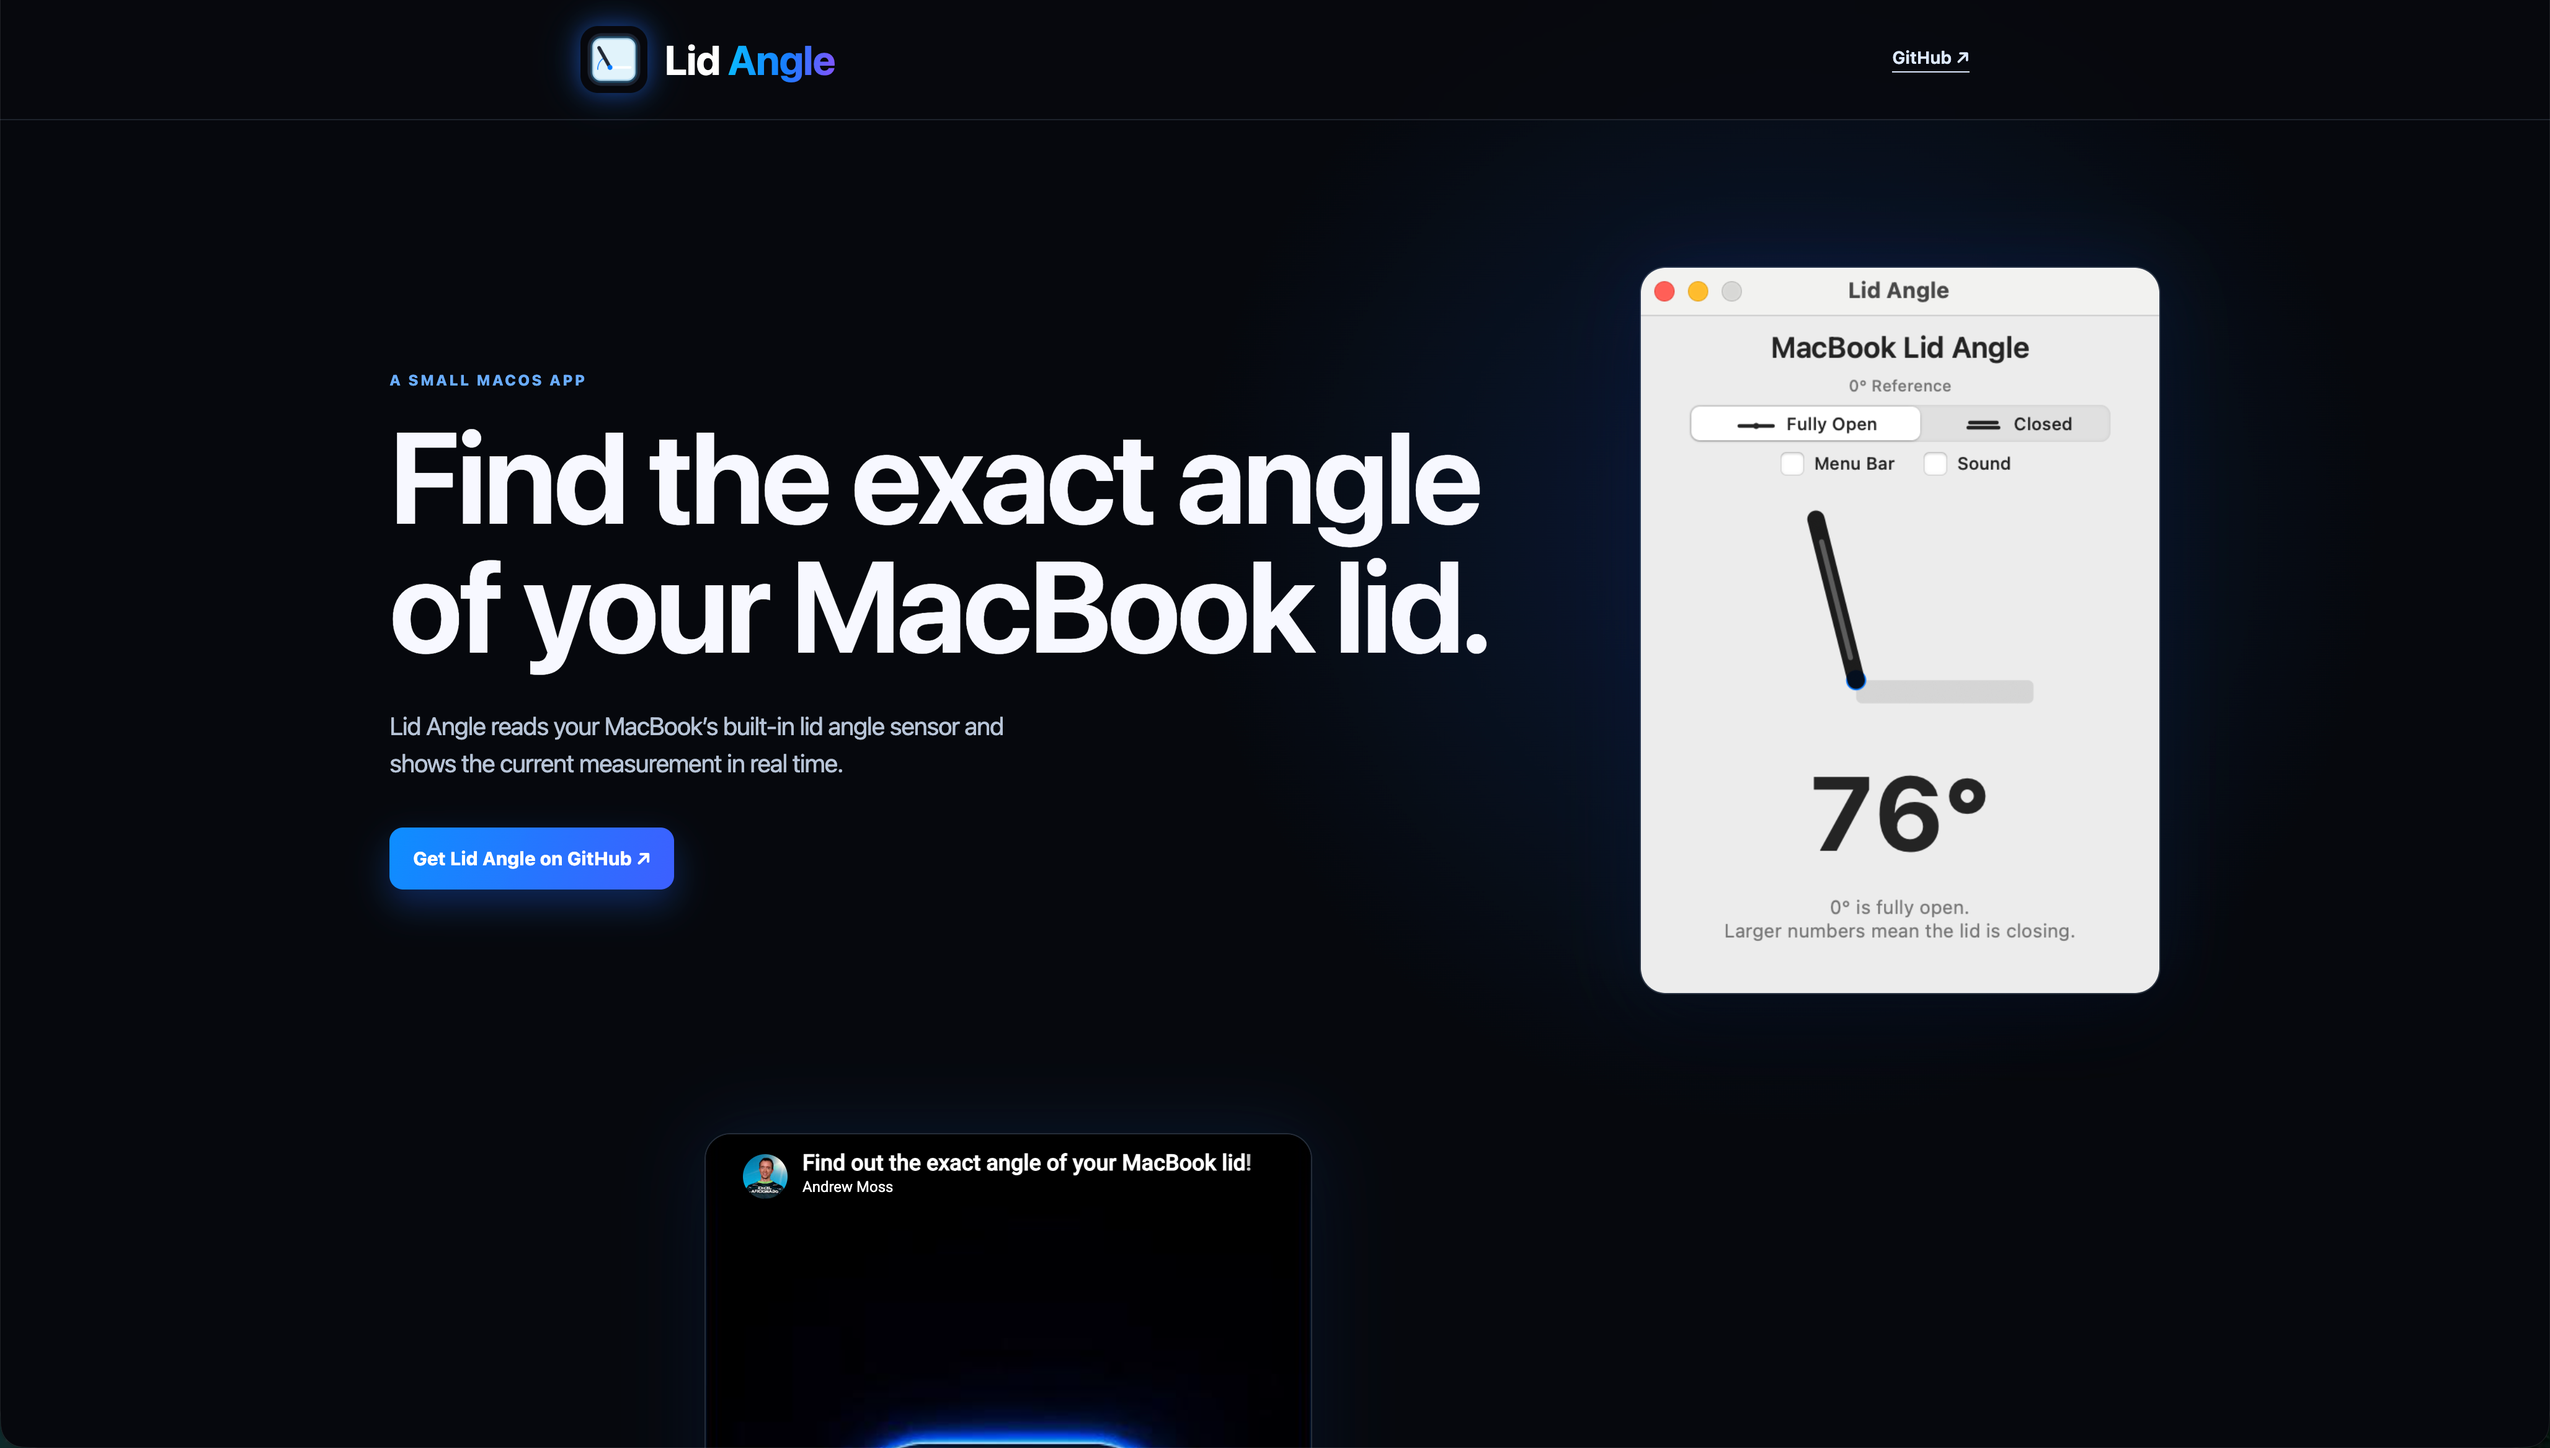
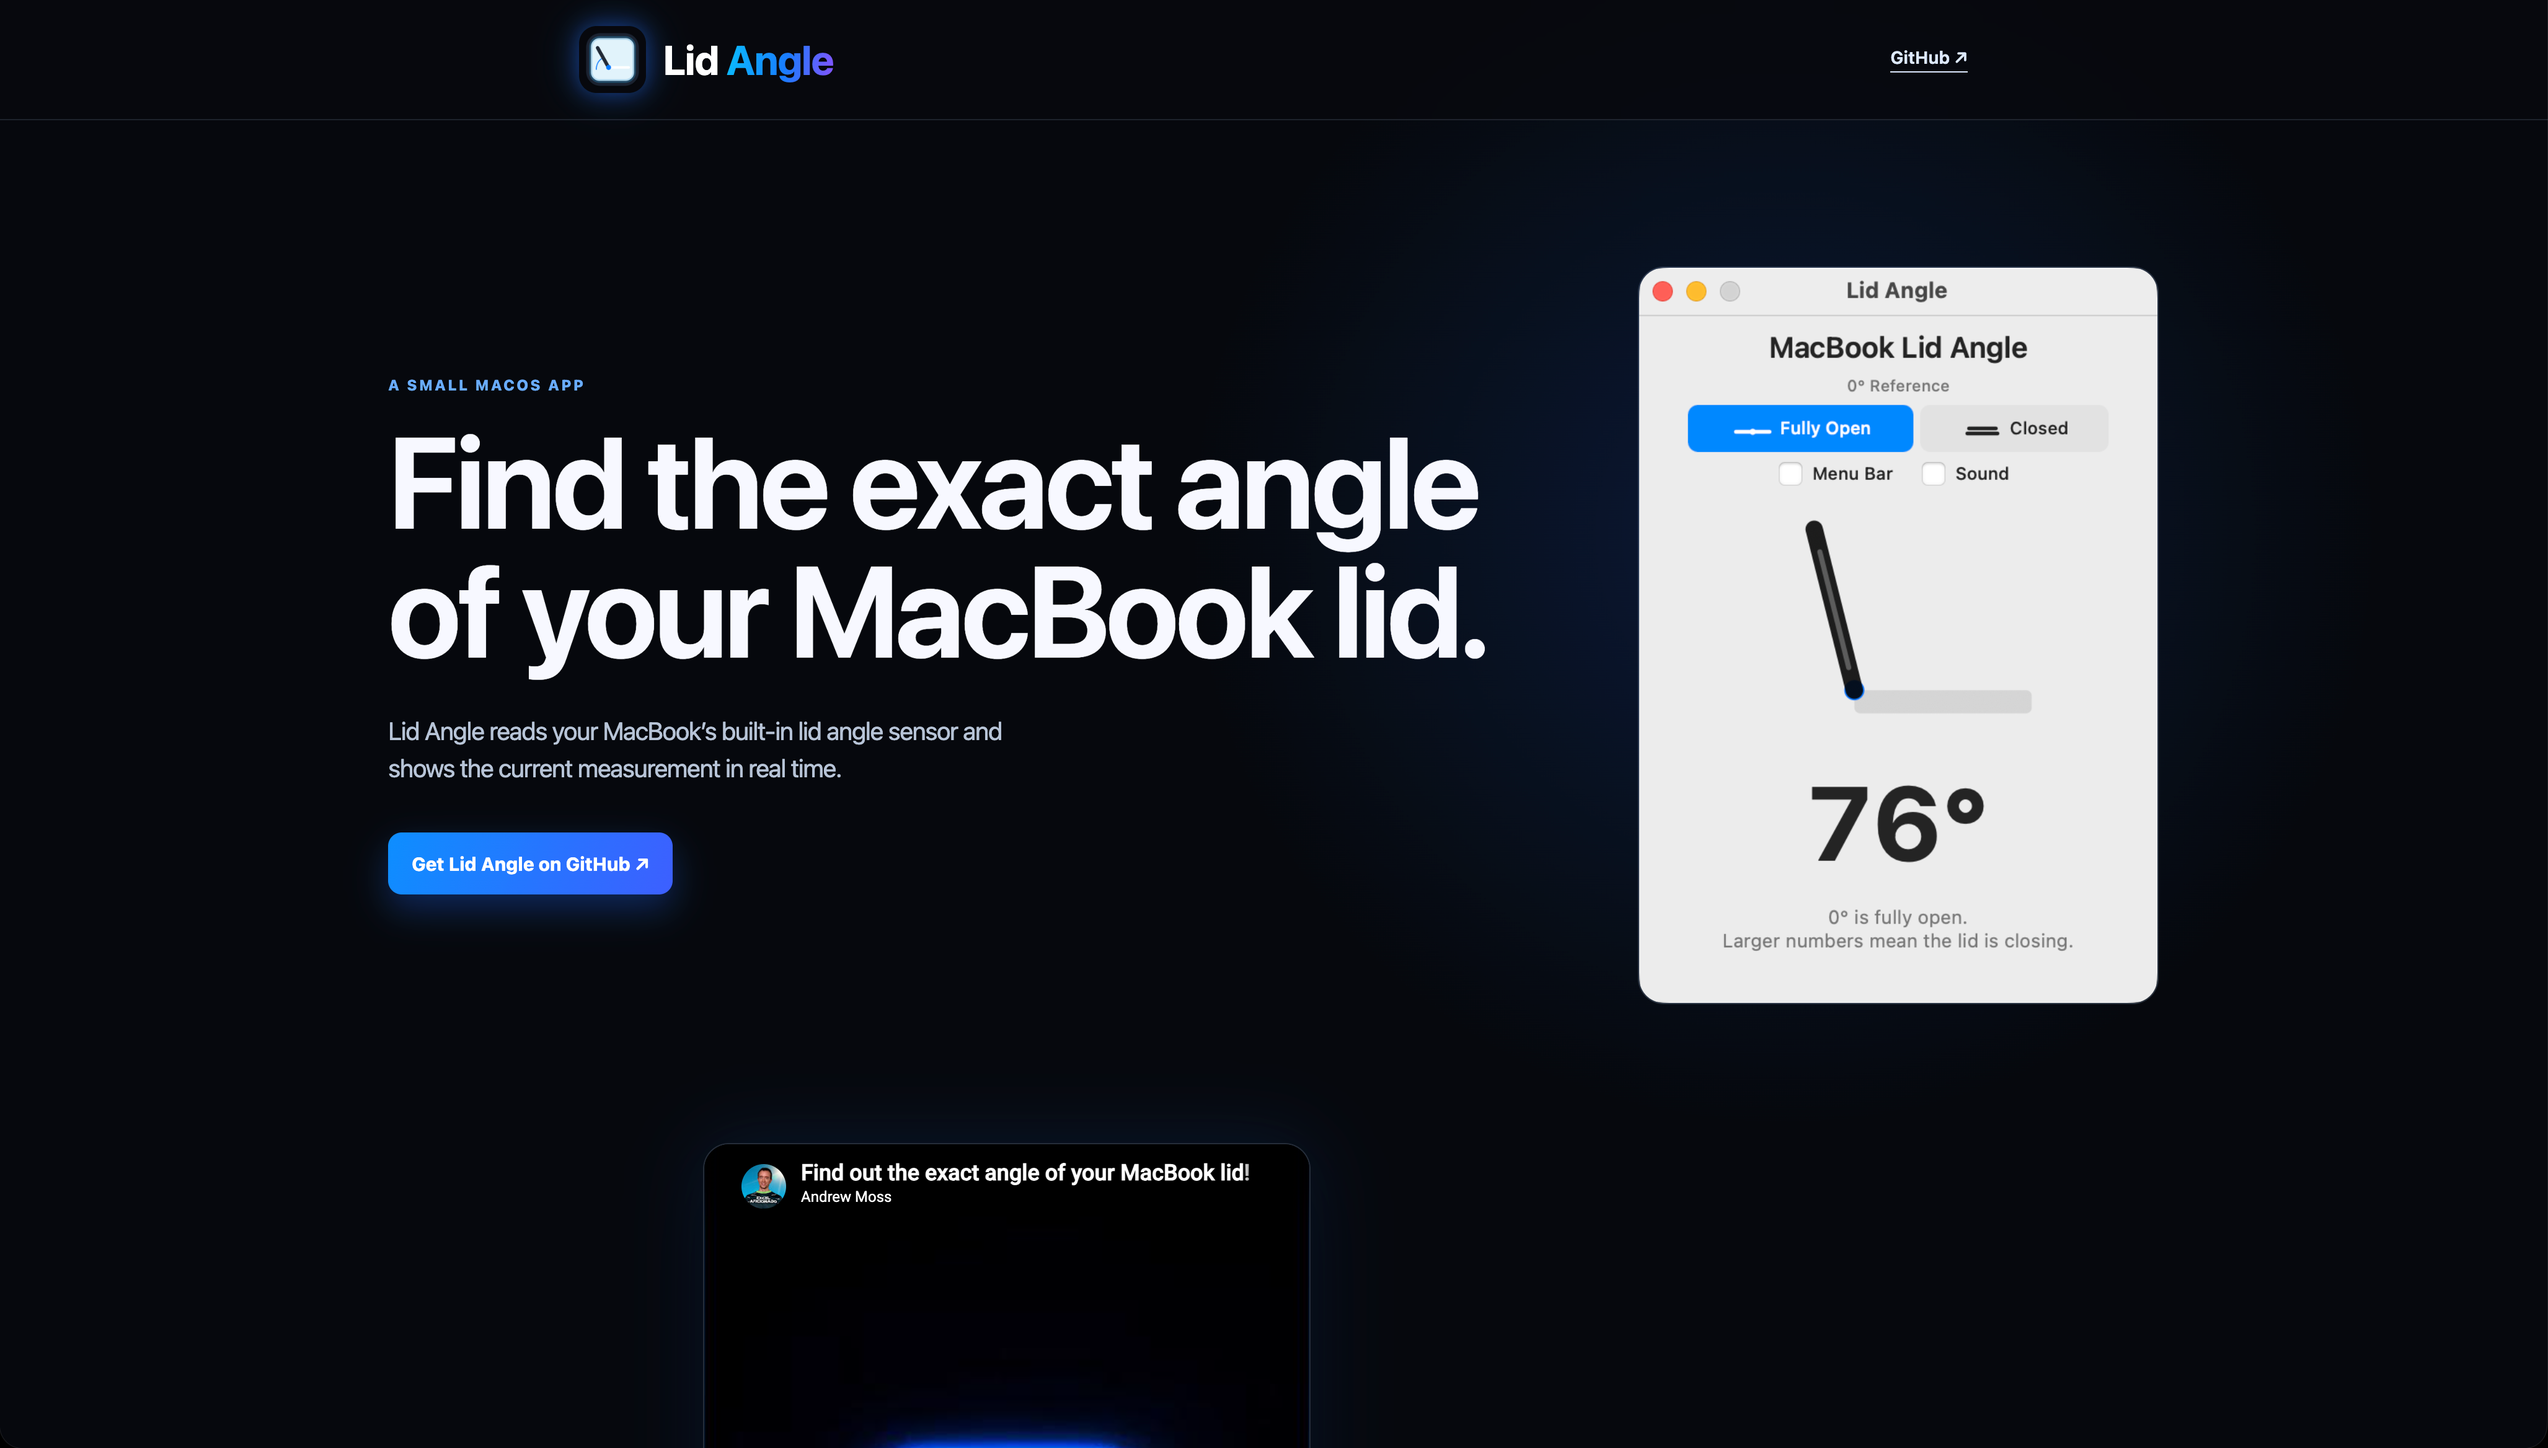
Commit current Lid Angle worktree

diff --git a/README.md b/README.md
@@ -1,4 +1,4 @@
-# Lid Angle App
+# Lid Angle
 
 A small native macOS app that shows the current angle of a MacBook lid.
 
@@ -22,7 +22,7 @@ Lid Angle is free. If it helped you, made you laugh, or saved you measuring your
 
 [Buy me a coffee](https://buymeacoffee.com/andrewcharlesmoss)
 
-## Run
+## Run locally
 
 ```sh
 swift run LidAngleApp
@@ -42,58 +42,7 @@ swift build -c release
 
 The sensor was introduced on the 2019 16-inch MacBook Pro and is present on various newer MacBook Pro and MacBook Air models. Compatibility depends on whether the Mac exposes the HID lid angle sensor to apps. If your Mac does not expose this HID device, the app will show an unavailable state rather than crashing.
 
+## Documentation
 
-## Changelog
-
-### 1.0.7 — 2026-08-17
-
-- Updates the support link and corrects the version displayed in the About panel and release app metadata.
-- Restores the blue active state for the display mode selector.
-
-### 1.0.6 — 2026-07-25
-
-- Stabilises stationary lid angle readings so they do not flicker between neighbouring degrees.
-- Keeps larger lid movements responsive while confirming one-degree changes across consecutive sensor readings.
-
-### 1.0.5 — 2026-07-01
-
-- Fixes the menu bar Show Lid Angle action after the main window is closed.
-- Keeps the main window available after closing it, so it can be reopened from the menu bar.
-- Adds a Lid Angle app menu with Show, menu bar display, Support, GitHub, About, and Quit items.
-- Adds a support link to the README.
-- Centres the hinge dot in the Fully Open selector icon.
-- Shows the copyright notice in the About panel.
-
-### 1.0.4 — 2026-06-24
-
-- Updates the app icon so the blue reference curve better matches the default Fully Open mode.
-
-### 1.0.3 — 2026-06-18
-
-- Adds a `0° Reference` label to clarify what the display selector controls.
-- Renames Flat to Fully Open for clearer wording.
-- Shows `Open` before the angle in the menu bar when using Fully Open mode.
-
-### 1.0.2 — 2026-06-18
-
-- Renames the window title to MacBook Lid Angle to include compatible MacBook Air models.
-- Makes unsupported-device messaging model-neutral.
-- Removes the redundant “degrees” label beneath readings that already use the degree symbol.
-
-### 1.0.1 — 2026-06-13
-
-- Makes Flat the default display mode.
-- Shows `Closed` before the angle in the menu bar when using Closed mode.
-- Prevents the app window from being resized.
-- Tightens the MacBook visualiser spacing.
-- Keeps the lid drawing a consistent length as the angle changes.
-- Aligns the hinge with the start of the base.
-- Shortens the visualiser base so it better matches the lid length.
-- Adds clearer download instructions for macOS Gatekeeper warnings.
-
-### 1.0.0 — 2026-06-12
-
-- Initial release.
-- Shows the live MacBook lid angle.
-- Includes Closed and Flat display modes.
-- Adds optional menu bar display and sound.
+- [Project instructions](AGENTS.md)
+- [Changelog](CHANGELOG.md)

diff --git a/CHANGELOG.md b/CHANGELOG.md
@@ -1,0 +1,81 @@
+# Changelog
+
+## Unreleased
+
+## 1.0.7 — 2026-08-17
+
+### Changed
+
+- Updated the support link and corrected the version displayed in the About panel and release app metadata.
+- Restored the blue active state for the display mode selector.
+
+## 1.0.6 — 2026-07-25
+
+### Fixed
+
+- Stabilised stationary lid angle readings so they do not flicker between neighbouring degrees.
+- Kept larger lid movements responsive while confirming one-degree changes across consecutive sensor readings.
+
+## 1.0.5 — 2026-07-01
+
+### Added
+
+- Added a Lid Angle app menu with Show, menu bar display, Support, GitHub, About, and Quit items.
+- Added a support link to the README.
+
+### Changed
+
+- Centred the hinge dot in the Fully Open selector icon.
+- Showed the copyright notice in the About panel.
+
+### Fixed
+
+- Fixed the menu bar Show Lid Angle action after the main window was closed.
+- Kept the main window available after closing it, so it could be reopened from the menu bar.
+
+## 1.0.4 — 2026-06-24
+
+### Changed
+
+- Updated the app icon so the blue reference curve better matched the default Fully Open mode.
+
+## 1.0.3 — 2026-06-18
+
+### Changed
+
+- Added a `0° Reference` label to clarify what the display selector controls.
+- Renamed Flat to Fully Open for clearer wording.
+- Showed `Open` before the angle in the menu bar when using Fully Open mode.
+
+## 1.0.2 — 2026-06-18
+
+### Changed
+
+- Renamed the window title to MacBook Lid Angle to include compatible MacBook Air models.
+- Made unsupported-device messaging model-neutral.
+- Removed the redundant “degrees” label beneath readings that already use the degree symbol.
+
+## 1.0.1 — 2026-06-13
+
+### Added
+
+- Added clearer download instructions for macOS Gatekeeper warnings.
+
+### Changed
+
+- Made Flat the default display mode.
+- Showed `Closed` before the angle in the menu bar when using Closed mode.
+- Prevented the app window from being resized.
+- Tightened the MacBook visualiser spacing.
+- Kept the lid drawing a consistent length as the angle changed.
+- Aligned the hinge with the start of the base.
+- Shortened the visualiser base so it better matched the lid length.
+
+## 1.0.0 — 2026-06-12
+
+### Added
+
+- Initial release.
+- Showed the live MacBook lid angle.
+- Included Closed and Flat display modes.
+- Added optional menu bar display and sound.

diff --git a/AGENTS.md b/AGENTS.md
@@ -1,0 +1,32 @@
+# Lid Angle project instructions
+
+## Scope
+
+Lid Angle is a native macOS app that reads the MacBook lid-angle HID sensor and
+  presents the reading in the app and optional menu bar display.
+
+## Commands
+
+- Run locally with `swift run LidAngleApp`.
+- Run a one-off sensor reading with `swift run LidAngleApp --once`.
+- Build with `swift build -c release`.
+- Run tests with `swift test`.
+
+## Project-specific rules
+
+- Preserve the macOS 14 deployment target and the IOKit HID sensor boundary.
+- Keep unsupported-device behaviour safe and user-readable; do not assume the
+  sensor exists on every Mac.
+
+## Releases
+
+- Before a release, follow the shared release checks and inspect the packaged
+  app, About panel and bundle metadata.
+
+## Verification
+
+- Test both supported and unavailable sensor states where possible.
+- Check the main window, menu bar display, display modes, sound and About panel
+  after UI changes.
+- Preserve the documented Gatekeeper and non-notarised release notice unless
+  the distribution process changes.
